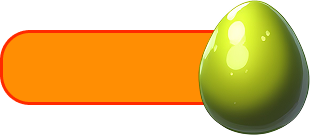
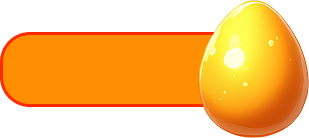
fixed logic/added descr for info screen

Changed region(s): [[0.0, 0.0, 1.0, 1.0]]

diff --git a/lib/game/game.dart b/lib/game/game.dart
@@ -31,6 +31,11 @@ class CatchGame extends FlameGame
   final UserSettingsModel settings;
   final UserModel user;
 
+  bool slowMotionActive = false;
+  double slowMotionTimer = 0;
+
+  int missedNormalEggs = 0;
+
   CatchGame({
     super.children,
     super.world,
@@ -69,22 +74,39 @@ class CatchGame extends FlameGame
     add(basket);
   }
 
+  void activateSlowMotion(double duration) {
+    slowMotionActive = true;
+    slowMotionTimer = duration;
+  }
+
   @override
   void update(double dt) {
     super.update(dt);
-    spawnTimer += dt;
 
+    if (slowMotionActive) {
+      slowMotionTimer -= dt;
+      if (slowMotionTimer <= 0) {
+        slowMotionActive = false;
+      }
+    }
+
+    spawnTimer += dt;
     if (spawnTimer >= level.spawnSpeed) {
       spawnTimer = 0;
       spawnEggWave();
     }
 
-    if (lives <= 0) {
-      loseGame();
-    }
+    if (lives <= 0) loseGame();
+    if (caughtEggs >= level.eggTarget) winGame();
+  }
 
-    if (caughtEggs >= level.eggTarget) {
-      winGame();
+  void missedEgg(Egg egg) {
+    if (egg.type == EggType.normal) {
+      missedNormalEggs++;
+      if (missedNormalEggs >= 10) {
+        missedNormalEggs = 0;
+        loseLife();
+      }
     }
   }
 
@@ -93,15 +115,40 @@ class CatchGame extends FlameGame
     for (int i = 0; i < eggsCount; i++) {
       final x = 20 + _rand.nextDouble() * (size.x - 40);
 
-      final egg = Egg()
+      EggType type = EggType.normal;
+      double r = _rand.nextDouble();
+
+      if (r < 0.15) {
+        type = EggType.poison; // 15%
+      } else if (r < 0.25) {
+        type = EggType.frost; // 10%
+      } else if (r < 0.30) {
+        type = EggType.flame; // 5%
+      }
+
+      final egg = Egg(type: type)
         ..position = Vector2(x, -10)
         ..anchor = Anchor.center;
 
       final baseSpeed = level.eggFallSpeed + caughtEggs * 1.0;
-      egg.velocity = Vector2(0, baseSpeed + _rand.nextDouble() * 40);
+      egg.baseVelocity = Vector2(0, baseSpeed + _rand.nextDouble() * 40);
 
       add(egg);
     }
+  }
+
+  void catchEgg(int points) {
+    caughtEggs += 1;
+    score += points * 10;
+    coins += 2;
+
+    eggCounter.updateCount(caughtEggs, level.eggTarget);
+    coinCounter.updateCount(coins);
+  }
+
+  void addCoins(int value) {
+    coins += value;
+    coinCounter.updateCount(coins);
   }
 
   @override
@@ -111,8 +158,9 @@ class CatchGame extends FlameGame
 
     final halfWidth = basket.size.x / 2;
     if (basket.position.x < halfWidth) basket.position.x = halfWidth;
-    if (basket.position.x > size.x - halfWidth)
+    if (basket.position.x > size.x - halfWidth) {
       basket.position.x = size.x - halfWidth;
+    }
   }
 
   @override
@@ -121,19 +169,9 @@ class CatchGame extends FlameGame
     basket.position.x = pos.x;
   }
 
-  /// Ловим яйцо: увеличиваем пойманные яйца, очки и монеты
-  void catchEgg(int points) {
-    caughtEggs += 1;
-    score += points;
-    coins += 2; // добавляем 2 коина за яйцо
-
-    eggCounter.updateCount(caughtEggs, level.eggTarget);
-    coinCounter.updateCount(coins);
-  }
-
   void loseLife() {
     lives -= 1;
-    livesCounter.updateCount(lives); // обновляем LivesCounter
+    livesCounter.updateCount(lives);
   }
 
   void fullRestart() {
@@ -144,6 +182,7 @@ class CatchGame extends FlameGame
     caughtEggs = 0;
     lives = 5;
     coins = 0;
+    missedNormalEggs = 0;
 
     eggCounter.updateCount(0, level.eggTarget);
     coinCounter.updateCount(0);

diff --git a/lib/screens/info_screen.dart b/lib/screens/info_screen.dart
@@ -4,6 +4,7 @@ import 'package:test_task/utils/layout_wrapper.dart';
 import 'package:test_task/utils/size_config.dart';
 import 'package:test_task/widgets/common/app_header.dart';
 import 'package:test_task/widgets/common/menu_container.dart';
+import 'package:test_task/widgets/info_tile.dart';
 
 class InfoScreen extends StatelessWidget {
   const InfoScreen({super.key});
@@ -31,12 +32,39 @@ class InfoScreen extends StatelessWidget {
                           'how to play',
                           style: Theme.of(context).textTheme.headlineMedium,
                         ),
-                        Spacer(),
-                        Text(
-                          'text',
-                          style: Theme.of(context).textTheme.headlineSmall,
+                        SizedBox(height: SizeConfig.h(2.5)),
+                        Flexible(
+                          child: Text(
+                            'Catch falling eggs with your basket to complete the level.Every tenth missed egg takes away 1 life.',
+                            style: Theme.of(context).textTheme.headlineSmall,
+                          ),
                         ),
-                        Spacer(),
+                        SizedBox(height: SizeConfig.h(2.5)),
+                        InfoTile(
+                          title: 'Frost Egg',
+                          asset: Assets.frostEgg,
+                          text:
+                              'slows down the speed of egg falls for 5 seconds',
+                        ),
+                        SizedBox(height: SizeConfig.h(1.5)),
+                        InfoTile(
+                          title: 'Flame Egg',
+                          asset: Assets.flameEgg,
+                          text: 'doubles the number of coins and points',
+                        ),
+                        SizedBox(height: SizeConfig.h(1.5)),
+                        InfoTile(
+                          title: 'Poison Egg',
+                          asset: Assets.poisonEgg,
+                          text: 'takes one life',
+                        ),
+                        SizedBox(height: SizeConfig.h(1.5)),
+                        Flexible(
+                          flex: 2,
+                          child: Image.asset(
+                            'assets/images/${Assets.chickens}',
+                          ),
+                        ),
                       ],
                     ),
                   ),

diff --git a/lib/game/components/egg.dart b/lib/game/components/egg.dart
@@ -1,38 +1,63 @@
 import 'package:flame/components.dart';
 import 'package:flame/collisions.dart';
+import 'package:test_task/const/assets.dart';
 import 'package:test_task/game/components/basket.dart';
 import 'package:test_task/game/game.dart';
 
+enum EggType { normal, frost, flame, poison }
+
 class Egg extends SpriteComponent
     with CollisionCallbacks, HasGameRef<CatchGame> {
-  Vector2 velocity = Vector2.zero();
+  Vector2 baseVelocity = Vector2.zero();
   bool caught = false;
-  final int points;
+  final EggType type;
 
-  Egg({this.points = 10});
+  Egg({this.type = EggType.normal});
 
   @override
   Future<void> onLoad() async {
-    final image = await gameRef.images.load(gameRef.settings.egg);
+    String asset = gameRef.settings.egg;
+
+    switch (type) {
+      case EggType.frost:
+        asset = Assets.frostEgg;
+        break;
+      case EggType.flame:
+        asset = Assets.flameEgg;
+        break;
+      case EggType.poison:
+        asset = Assets.poisonEgg;
+        break;
+      case EggType.normal:
+      default:
+        asset = gameRef.settings.egg;
+    }
+
+    final image = await gameRef.images.load(asset);
     sprite = Sprite(image);
 
-    size = Vector2(18, 22);
+    size = Vector2(18 * 1.3, 22 * 1.3);
     add(RectangleHitbox());
-
-    await super.onLoad();
   }
 
   @override
   void update(double dt) {
     super.update(dt);
 
-    position += velocity * dt;
+    final multiplier = gameRef.slowMotionActive ? 0.5 : 1.0;
+    position += baseVelocity * multiplier * dt;
+
     angle += 1.5 * dt;
 
     if (position.y > gameRef.size.y + 30 && !caught) {
       caught = true;
       removeFromParent();
-      gameRef.loseLife();
+
+      gameRef.missedEgg(this);
+
+      if (type == EggType.poison) {
+        gameRef.loseLife();
+      }
     }
   }
 
@@ -44,7 +69,25 @@ class Egg extends SpriteComponent
       caught = true;
       removeFromParent();
 
-      gameRef.catchEgg(points);
+      switch (type) {
+        case EggType.frost:
+          gameRef.activateSlowMotion(5);
+          gameRef.catchEgg(1);
+          gameRef.addCoins(2);
+          break;
+        case EggType.flame:
+          gameRef.catchEgg(2);
+          gameRef.addCoins(4);
+          break;
+        case EggType.poison:
+          gameRef.loseLife();
+          break;
+        case EggType.normal:
+        default:
+          gameRef.catchEgg(1);
+          gameRef.addCoins(2);
+          break;
+      }
     }
   }
 }

diff --git a/lib/widgets/info_tile.dart b/lib/widgets/info_tile.dart
@@ -1,0 +1,36 @@
+import 'package:flutter/material.dart';
+import 'package:test_task/utils/size_config.dart';
+
+class InfoTile extends StatelessWidget {
+  final String asset;
+  final String text;
+  final String title;
+
+  const InfoTile({
+    super.key,
+    required this.asset,
+    required this.text,
+    required this.title,
+  });
+
+  @override
+  Widget build(BuildContext context) {
+    return Row(
+      children: [
+        Flexible(flex: 1, child: Image.asset('assets/images/$asset')),
+        SizedBox(width: SizeConfig.w(3)),
+        Expanded(
+          flex: 3,
+          child: Column(
+            crossAxisAlignment: CrossAxisAlignment.start,
+            children: [
+              Text(title, style: Theme.of(context).textTheme.bodySmall),
+              SizedBox(height: SizeConfig.h(1)),
+              Text(text, style: Theme.of(context).textTheme.headlineSmall),
+            ],
+          ),
+        ),
+      ],
+    );
+  }
+}

diff --git a/lib/models/shop_item_model.dart b/lib/models/shop_item_model.dart
@@ -17,27 +17,27 @@ class ShopItemModel {
 
 final shopItemsList = <ShopItemModel>[
   ShopItemModel(
-    name: 'Green Egg',
+    name: 'Yellow Egg',
     image: Assets.egg1,
     price: 0,
     content: UnlockedContent.egg1,
   ),
   ShopItemModel(
-    name: 'Yellow Egg',
+    name: 'Purple Egg',
     image: Assets.egg2,
-    price: 100,
+    price: 200,
     content: UnlockedContent.egg2,
   ),
   ShopItemModel(
-    name: 'Purple Egg',
+    name: 'Red Egg',
     image: Assets.egg3,
-    price: 150,
+    price: 300,
     content: UnlockedContent.egg3,
   ),
   ShopItemModel(
-    name: 'Red Egg',
+    name: 'Orange Egg',
     image: Assets.egg4,
-    price: 200,
+    price: 400,
     content: UnlockedContent.egg4,
   ),
   ShopItemModel(

diff --git a/lib/const/assets.dart b/lib/const/assets.dart
@@ -21,8 +21,12 @@ class Assets {
   static const String egg2 = 'egg2.png';
   static const String egg3 = 'egg3.png';
   static const String egg4 = 'egg4.png';
+  static const String frostEgg = 'frost_egg.png';
+  static const String flameEgg = 'flame_egg.png';
+  static const String poisonEgg = 'poison_egg.png';
 
   // Chickens
   static const String chicken1 = 'chicken1.png';
   static const String chicken2 = 'chicken2.png';
+  static const String chickens = 'chickens.png';
 }

diff --git a/lib/const/levels.dart b/lib/const/levels.dart
@@ -4,7 +4,7 @@ class Levels {
   static final List<LevelModel> levels = List.generate(9, (index) {
     final levelNumber = index + 1;
 
-    final eggTarget = 20 + index * 6;
+    final eggTarget = 30 + index * 6;
     final spawnSpeed = 1.5 - index * 0.1;
     final eggFallSpeed = 100.0 + index * 20;
 
